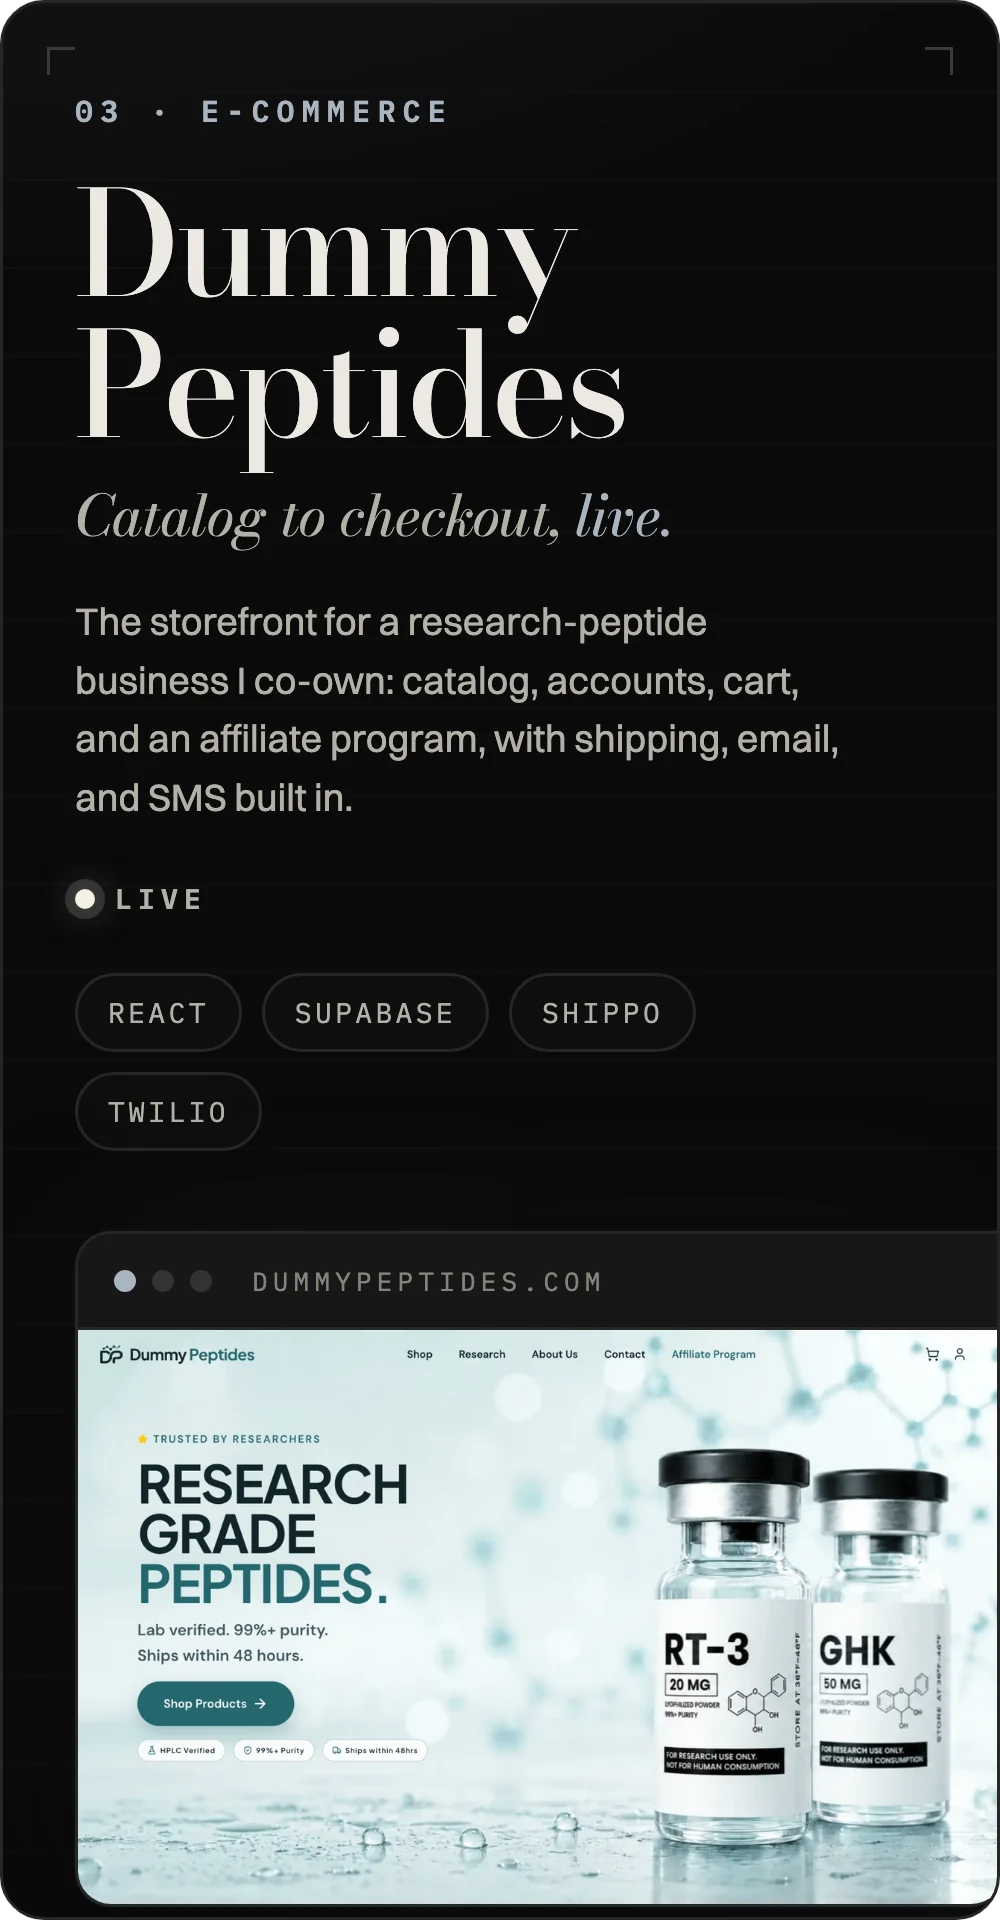
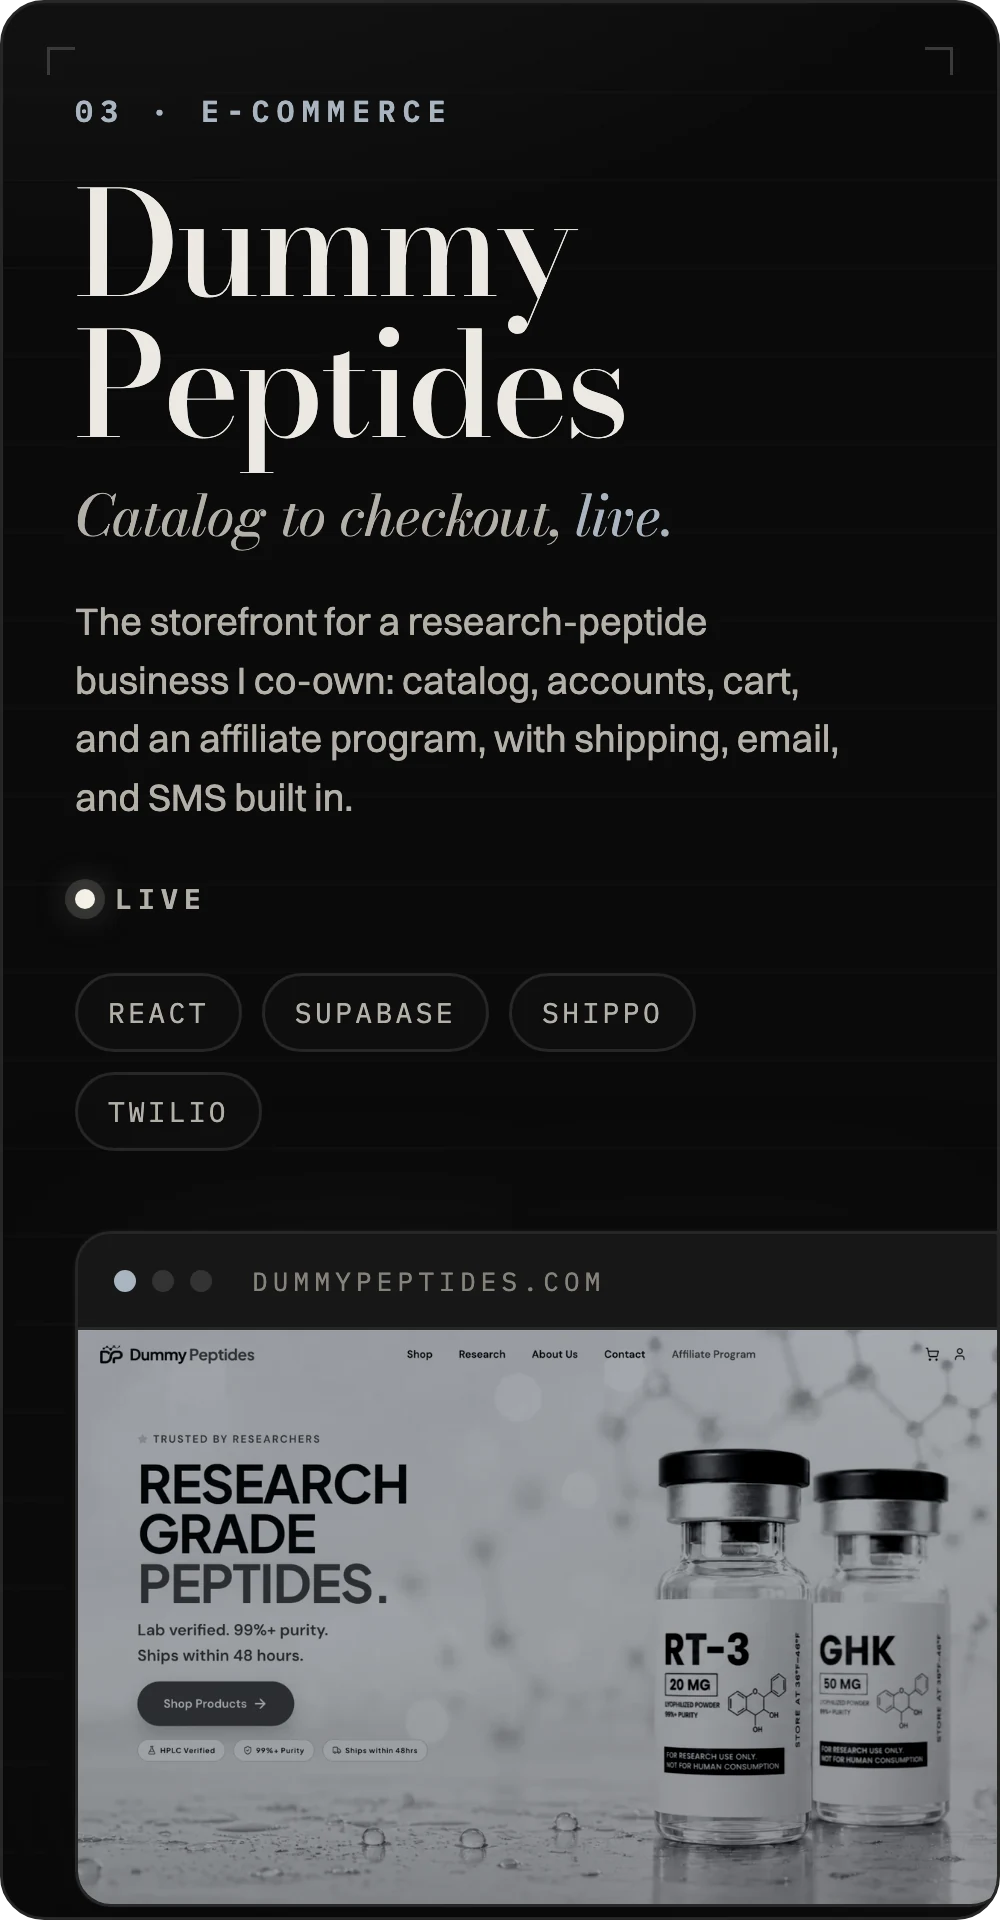
feat: live "now building" chip and steel-toned Dummy Peptides shot
- scripts/now.py reads my most recently pushed public repos from the GitHub API
  (last 21 days; skips this repo, forks, templates, archived, private)
- profile.yml (was snake.yml) rebuilds the hero with that list every 3 hours and
  on push, alongside the snake, and publishes both to the output branch; the
  README loads the hero from there so main gets no automated commits
- Dummy Peptides screenshot rendered as a steel duotone to match the palette

Changed region(s): [[0.062, 0.6875, 1.0, 1.0]]

diff --git a/scripts/header.py b/scripts/header.py
@@ -18,7 +18,7 @@ PHRASES = [
 ]
 ABOUT = "Computer Science at Oakland University, class of 2027."
 NOW = "NOW BUILDING"
-NOW_ITEMS = "EASYMAIL · STAYDUE"
+NOW_ITEMS = "EASYMAIL · STAYDUE"  # replaced by the live list when built with --live (see now.py)
 
 # Typing rhythm, in seconds.
 TYPE, HOLD, DELETE, GAP = 0.055, 2.4, 0.022, 0.4
@@ -143,9 +143,12 @@ def typing(x: float, y: float, size: float, uid: str) -> str:
     return f"<defs>{''.join(defs)}</defs>" + "".join(out)
 
 
-def now_chip(x: float, y: float, size: float, anchor_end: bool = False) -> str:
+def now_chip(x: float, y: float, size: float, anchor_end: bool = False, max_w: float = 1e9) -> str:
     label_w = measure(NOW, "monobold", size, 2.4)
-    items_w = measure(NOW_ITEMS, "mono", size, 2.4)
+    items = NOW_ITEMS
+    if 26 + label_w + 16 + measure(items, "mono", size, 2.4) > max_w:  # too long: keep the latest repo only
+        items = items.split(" · ")[0]
+    items_w = measure(items, "mono", size, 2.4)
     w = 26 + label_w + 16 + items_w
     x0 = x - w if anchor_end else x
     cy = y - size * 0.36
@@ -154,12 +157,13 @@ def now_chip(x: float, y: float, size: float, anchor_end: bool = False) -> str:
             f'<text x="{x0 + 26:.1f}" y="{y}" font-family="MM Mono Bold" font-size="{size}" letter-spacing="2.4" '
             f'fill="{TEXT}">{NOW}</text>'
             f'<text x="{x0 + 26 + label_w + 16:.1f}" y="{y}" font-family="MM Mono" font-size="{size}" '
-            f'letter-spacing="2.4" fill="{ACCENT}">{NOW_ITEMS}</text>')
+            f'letter-spacing="2.4" fill="{ACCENT}">{esc(items)}</text>')
 
 
 def svg(w: int, h: int, body: str) -> str:
+    now = " and ".join(n.title() for n in NOW_ITEMS.split(" · "))
     desc = (f"Meron Matti, full-stack and indie developer. I build {PHRASES[0]} Also: "
-            + "; ".join(p.rstrip(".") for p in PHRASES[1:]) + f". {ABOUT} Now building EasyMail and StayDue.")
+            + "; ".join(p.rstrip(".") for p in PHRASES[1:]) + f". {ABOUT} Now building {now}.")
     return (f'<svg xmlns="http://www.w3.org/2000/svg" width="{w}" height="{h}" viewBox="0 0 {w} {h}" role="img" '
             f'aria-labelledby="t d"><title id="t">Meron Matti</title><desc id="d">{esc(desc)}</desc>'
             f"<style>{fonts()}{MOTION}</style>{backdrop(w, h)}{body}</svg>")
@@ -181,7 +185,7 @@ def desktop() -> str:
 <text x="{pad}" y="{type_y}" font-family="MM Mono" font-size="{mono}" fill="{MUTED}"><tspan fill="{ACCENT}">›</tspan>{esc(PREFIX[1:])}</text>
 {typing(pad + prefix_w, type_y, mono, "tw")}
 {outline(ABOUT, "body", 18, pad, h - 64, SOFT)}
-{now_chip(w - pad, h - 64, 13.5, anchor_end=True)}"""
+{now_chip(w - pad, h - 64, 13.5, anchor_end=True, max_w=560)}"""
     return svg(w, h, body)
 
 
@@ -203,14 +207,25 @@ def phone() -> str:
 {typing(pad, rule_y + 96, mono, "tp")}
 {outline("Computer Science at Oakland University,", "body", 21, pad, h - 138, SOFT)}
 {outline("class of 2027.", "body", 21, pad, h - 108, SOFT)}
-{now_chip(pad, h - 58, 15)}"""
+{now_chip(pad, h - 58, 15, max_w=w - 2 * pad)}"""
     return svg(w, h, body)
 
 
-def main() -> None:
-    write(ASSETS / "header.svg", desktop())
-    write(ASSETS / "header-phone.svg", phone())
+def main(argv: list[str] | None = None) -> None:
+    """--live pulls the "now building" repos from GitHub; --out DIR writes somewhere other than assets/."""
+    from pathlib import Path
+
+    global NOW_ITEMS
+    argv = argv or []
+    out = Path(argv[argv.index("--out") + 1]) if "--out" in argv else ASSETS
+    if "--live" in argv:
+        from now import now_building
+        NOW_ITEMS = " · ".join(now_building())
+        print(f"now building: {NOW_ITEMS}")
+    write(out / "header.svg", desktop())
+    write(out / "header-phone.svg", phone())
 
 
 if __name__ == "__main__":
-    main()
+    import sys
+    main(sys.argv[1:])

diff --git a/scripts/cards.py b/scripts/cards.py
@@ -164,7 +164,9 @@ def imperium() -> str:
 # --- Screenshot cards -------------------------------------------------------
 
 def shot_card(eyebrow: str, title: str, tag: str, desc: str, status: str, live: bool, tags: list[str],
-              shot: str, crop: tuple[int, int, int, int], flip: bool, seed: int, url: str) -> str:
+              shot: str, crop: tuple[int, int, int, int], flip: bool, seed: int, url: str,
+              tone: bool = False) -> str:
+    """`tone` turns a bright screenshot into a steel duotone so it sits in the monochrome page."""
     text = f"""
   <div class="text">
     <div class="eyebrow">{eyebrow}</div>
@@ -179,7 +181,8 @@ def shot_card(eyebrow: str, title: str, tag: str, desc: str, status: str, live: 
     <div class="chrome"><i></i><i></i><i></i><span>{esc(url)}</span></div>
     {screenshot(shot, crop, 700 if flip else 820)}
   </div>"""
-    body = f'<div class="wrap{" flip" if flip else ""}">{visual + text if flip else text + visual}</div>'
+    body = (f'<div class="wrap{" flip" if flip else ""}{" toned" if tone else ""}">'
+            f'{visual + text if flip else text + visual}</div>')
     css = f"""
 .wrap{{position:relative;display:flex;gap:56px;height:100%;padding:64px 0 0 64px}}
 .wrap.flip{{padding:64px 64px 0 0;gap:44px}}
@@ -190,6 +193,9 @@ def shot_card(eyebrow: str, title: str, tag: str, desc: str, status: str, live: 
 .wrap:not(.flip) .visual{{border-top-right-radius:0;border-right:none}}
 .wrap.flip .visual{{width:700px;border-top-left-radius:0;border-left:none}}
 .meta{{display:flex;flex-direction:column;gap:10px;margin-top:26px}}
+.toned .shot img{{filter:grayscale(1) brightness(.74) contrast(1.18)}}
+.toned .shot:after{{content:'';position:absolute;inset:0;background:linear-gradient(160deg,rgba(169,180,192,.30),rgba(10,10,10,.28));mix-blend-mode:multiply}}
+.toned .shot:before{{content:'';position:absolute;inset:0;z-index:1;background:{ACCENT};mix-blend-mode:color;opacity:.22}}
 .url{{font-family:'MM Mono';font-size:14px;letter-spacing:.06em;color:{MUTED}}}
 @media (max-width:700px){{
   .wrap,.wrap.flip{{flex-direction:column;gap:40px;padding:44px 36px 0}}
@@ -220,7 +226,7 @@ def dummy() -> str:
         "The storefront for a research-peptide business I co-own: catalog, accounts, cart, and an affiliate "
         "program, with shipping, email, and SMS built in.",
         "Live", True, ["React", "Supabase", "Shippo", "Twilio"],
-        "dummypeptides.png", (186, 110, 1244, 770), flip=True, seed=31, url="dummypeptides.com",
+        "dummypeptides.png", (186, 110, 1244, 770), flip=True, seed=31, url="dummypeptides.com", tone=True,
     )
 
 

diff --git a/scripts/now.py b/scripts/now.py
@@ -1,0 +1,51 @@
+"""What I'm building right now, read from GitHub: my most recently pushed public repos.
+
+    .venv/bin/python scripts/now.py        # prints e.g. ['LEDGER.M', 'EASYMAIL']
+
+Only public, non-fork, non-archived, non-template repos count, and never this
+profile repo. Private repos never appear: the public repos endpoint can't see them.
+"""
+
+from __future__ import annotations
+
+import json
+import os
+import urllib.request
+from datetime import datetime, timedelta, timezone
+
+USER = "MeronM18"
+WINDOW = timedelta(days=21)  # a repo counts as "now" if pushed within this window
+FALLBACK = ["EASYMAIL", "STAYDUE"]
+
+
+def repos() -> list[dict]:
+    req = urllib.request.Request(
+        f"https://api.github.com/users/{USER}/repos?type=owner&sort=pushed&direction=desc&per_page=30",
+        headers={"Accept": "application/vnd.github+json", "User-Agent": USER},
+    )
+    if token := os.environ.get("GITHUB_TOKEN"):
+        req.add_header("Authorization", f"Bearer {token}")
+    with urllib.request.urlopen(req, timeout=20) as r:
+        return json.load(r)
+
+
+def now_building(limit: int = 2) -> list[str]:
+    """Up to `limit` repo names, most recently pushed first; FALLBACK if the API fails or nothing is recent."""
+    try:
+        data = repos()
+    except Exception as e:  # never fail the build over the API
+        print(f"now.py: GitHub API unavailable ({e}); using fallback")
+        return FALLBACK
+    cutoff = datetime.now(timezone.utc) - WINDOW
+    names = [
+        r["name"].upper()
+        for r in data
+        if not (r["fork"] or r["archived"] or r.get("is_template") or r["private"])
+        and r["name"].lower() != USER.lower()
+        and datetime.fromisoformat(r["pushed_at"].replace("Z", "+00:00")) >= cutoff
+    ]
+    return names[:limit] or FALLBACK
+
+
+if __name__ == "__main__":
+    print(now_building())

diff --git a/scripts/brand.py b/scripts/brand.py
@@ -189,4 +189,5 @@ def render(html: str, out: Path, width: int, height: int, scale: int = 2, qualit
 def write(out: Path, content: str) -> None:
     out.parent.mkdir(parents=True, exist_ok=True)
     out.write_text(content)
-    print(f"wrote {out.relative_to(ROOT)} ({len(content) // 1024} KB)")
+    shown = out.resolve().relative_to(ROOT) if out.resolve().is_relative_to(ROOT) else out
+    print(f"wrote {shown} ({len(content) // 1024} KB)")

diff --git a/scripts/build.py b/scripts/build.py
@@ -9,5 +9,6 @@ import header
 import sections
 import stack
 
-for module in (header, sections, cards, stack, footer):
+header.main(["--live"])  # falls back to a fixed list offline
+for module in (sections, cards, stack, footer):
     module.main()

diff --git a/DESIGN.md b/DESIGN.md
@@ -1,6 +1,6 @@
 # Design direction
 
-**Quiet money after dark.** Near-black graphite, bone-white type, one cold steel accent, a script signature for the name and a high-contrast Didone for everything titled. It should read like a private dossier: ruled paper, corner registration marks, coordinates instead of a city name. The screenshots are the only saturated color on the page. The palette lives in `scripts/brand.py`, which every generator imports.
+**Quiet money after dark.** Near-black graphite, bone-white type, one cold steel accent, a script signature for the name and a high-contrast Didone for everything titled. It should read like a private dossier: ruled paper, corner registration marks, coordinates instead of a city name. Even the screenshots are toned toward steel. The palette lives in `scripts/brand.py`, which every generator imports.
 
 ## Type
 
@@ -61,9 +61,9 @@ python3 -m venv .venv && .venv/bin/pip install fonttools pillow uharfbuzz
 .venv/bin/python scripts/preview.py       # README in light/dark/phone, into .preview/
 ```
 
-Cards need Google Chrome. Live-site screenshots live in `scripts/shots/`; the Ledger.m one has its dollar amounts blanked.
+Cards need Google Chrome. Live-site screenshots live in `scripts/shots/`; the Ledger.m one has its dollar amounts blanked. Bright screenshots get `tone=True` in `cards.py`, a steel duotone (grayscale, dimmed, steel tint) so they sit in the monochrome page. Dummy Peptides uses it.
 
-The contribution snake is drawn by `.github/workflows/snake.yml` (Platane/snk) in greyscale every 12 hours and pushed to the `output` branch.
+`.github/workflows/profile.yml` runs every 3 hours and on every push to main. It rebuilds the hero with a live **Now building** list (`scripts/now.py`: my two most recently pushed public repos from the last 21 days, excluding this repo, forks, templates and archived repos, with EasyMail · StayDue as the fallback), draws the contribution snake in greyscale, and publishes both to the `output` branch. The README loads the hero from there, so main never gets automated commits. `assets/header.svg` is the local copy.
 
 ## Still building
 
@@ -72,7 +72,7 @@ The in-progress card is built from each repo's commit history and status docs: S
 ## Do
 
 - Put the facts in the markdown too (alt text and link lines), so the page works without images.
-- Keep one idea per card and let the screenshots carry the color.
+- Keep one idea per card. Tone bright screenshots down to steel rather than letting them break the palette.
 - Use steel sparingly. If two things are steel on one card, one of them shouldn't be.
 
 ## Don't

diff --git a/README.md b/README.md
@@ -1,6 +1,6 @@
 <picture>
-  <source media="(max-width: 600px)" srcset="./assets/header-phone.svg" />
-  <img src="./assets/header.svg" width="100%" alt="Meron Matti, written in script. Full-stack and indie developer. I build things for fun, then I ship them; agents that run my Mac from my phone; finance apps wired to real bank accounts; storefronts that ship real orders; iOS apps with paid subscriptions. Computer Science at Oakland University, class of 2027. Now building EasyMail and StayDue." />
+  <source media="(max-width: 600px)" srcset="https://raw.githubusercontent.com/MeronM18/MeronM18/output/header-phone.svg" />
+  <img src="https://raw.githubusercontent.com/MeronM18/MeronM18/output/header.svg" width="100%" alt="Meron Matti, written in script. Full-stack and indie developer. I build things for fun, then I ship them; agents that run my Mac from my phone; finance apps wired to real bank accounts; storefronts that ship real orders; iOS apps with paid subscriptions. Computer Science at Oakland University, class of 2027. Now building: my most recently pushed public repos, updated every 3 hours." />
 </picture>
 
 <p align="center">
